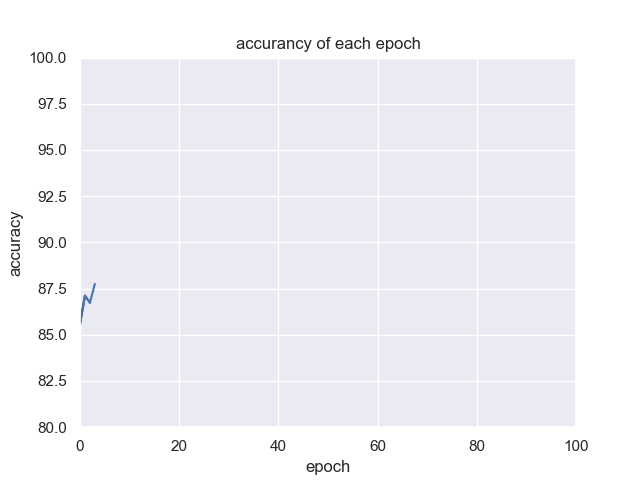
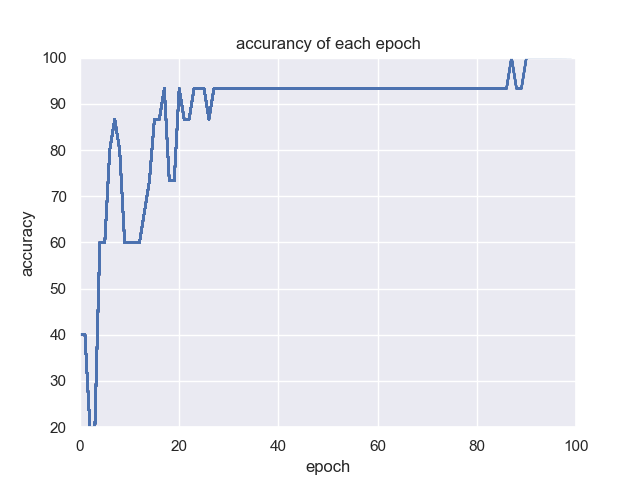
Fix some known problems

diff --git a/main.py b/main.py
@@ -3,7 +3,7 @@ Author: Derry
 Email: drlv@mail.ustc.edu.cn
 Date: 2021-07-25 23:39:03
 LastEditors: Derry
-LastEditTime: 2021-08-11 21:24:59
+LastEditTime: 2021-08-25 23:52:59
 Description: Standard main file of a neural network
 '''
 
@@ -27,7 +27,7 @@ def train(my_model, train_loader, test_loader, optimizer, scheduler, args, start
     test_loss_all, test_acc_all = [], []
     best_acc = 0
 
-    for epoch in range(start_epoch, args.epoch):
+    for epoch in range(start_epoch+1, args.epoch+1):
         start = time.time()
         for batch, (X_train, y_train) in enumerate(train_loader):
             my_model.train()
@@ -40,7 +40,7 @@ def train(my_model, train_loader, test_loader, optimizer, scheduler, args, start
             _, loss = my_model(X_train, y_train)
             loss.backward()
             optimizer.step()
-            scheduler.step(loss)
+        scheduler.step(loss)
 
         if not args.fastmode:
             print("Epoch {:3d}".format(epoch),
@@ -61,60 +61,63 @@ def train(my_model, train_loader, test_loader, optimizer, scheduler, args, start
             plot(test_loss_all, test_acc_all, args)
 
 
+@torch.no_grad()
 def test(my_model, test_loader, args):
-    with torch.no_grad():
-        for batch, (X_test, y_test) in enumerate(test_loader):
-            if args.cuda:
-                X_test = X_test.cuda()
-                y_test = y_test.cuda()
-            loss, acc = my_model.evaluate(X_test, y_test)
+    for batch, (X_test, y_test) in enumerate(test_loader):
+        if args.cuda:
+            X_test = X_test.cuda()
+            y_test = y_test.cuda()
+        loss, acc = my_model.evaluate(X_test, y_test)
 
-        print("Test set results:",
-              "loss= {:.4f}".format(loss),
-              "accuracy= {:.2f} %".format(100*acc))
-        return loss.item(), 100*acc.item()
+    print("Test set results:",
+          "loss= {:.4f}".format(loss),
+          "accuracy= {:.2f} %".format(acc))
+    return loss, acc
 
 
 if __name__ == "__main__":
     # Training settings
     parser = argparse.ArgumentParser()
-    parser.add_argument('--no_cuda', action='store_true',
-                        default=False, help='Disables CUDA training.')
-    parser.add_argument('--fastmode', action='store_true',
-                        default=False, help='Validate during training pass.')
-    parser.add_argument('--pretrained', action='store_true',
-                        default=True, help='Using pretrained model parameter.')
+    # Training outer arguments
+    parser.add_argument('--no_cuda', action='store_true', default=False,
+                        help='Disables CUDA training.')
     parser.add_argument('--seed', type=int, default=42, help='Random seed.')
+    parser.add_argument('--fastmode', action='store_true', default=False,
+                        help='Validate during training pass.')
+    parser.add_argument('--pretrained', action='store_true', default=False,
+                        help='Using pretrained model parameter.')
     parser.add_argument('--epoch', type=int, default=100,
                         help='Number of epochs to train.')
+    # Training inner arguments
     parser.add_argument('--batch_size', type=int, default=1024,
                         help='Number of samples in a batch.')
-    parser.add_argument('--n_in', type=int, default=100)
-    parser.add_argument('--n_out', type=int, default=100)
-    parser.add_argument('--lr', type=float, default=0.001,
+    parser.add_argument('--lr', type=float, default=0.1,
                         help='Initial learning rate.')
-    parser.add_argument('--test_size', type=float, default=0.1)
     parser.add_argument('--weight_decay', type=float, default=5e-4,
                         help='Weight decay (L2 loss on parameters).')
-    parser.add_argument('--hidden', type=int, default=16,
+    # Model arguments
+    parser.add_argument('--n_in', type=int, default=100,
+                        help='Number of input units, self-tuning by input data.')
+    parser.add_argument('--n_out', type=int, default=100,
+                        help='Number of output unit, self-tuning by output data.')
+    parser.add_argument('--n_hid', type=int, default=16,
                         help='Number of hidden units.')
     parser.add_argument('--dropout', type=float, default=0.5,
                         help='Dropout rate (1 - keep probability).')
-    parser.add_argument('--data_path', type=str,
-                        default="./data", help='Path of dataset')
-    parser.add_argument('--tmp_path', type=str,
-                        default="./tmp", help='Path of tmporary output')
-    parser.add_argument('--model_path', type=str,
-                        default="./model/best_model.tar",
+    # Path arguments
+    parser.add_argument('--data_path', type=str, default="./data",
+                        help='Path of dataset')
+    parser.add_argument('--tmp_path', type=str, default="./tmp",
+                        help='Path of tmporary output')
+    parser.add_argument('--model_path', type=str, default="./model/best_model.tar",
                         help='Path of model parameter')
-
     args = parser.parse_args()
     args.cuda = not args.no_cuda and torch.cuda.is_available()
 
     # Load data
-    X_train, y_train, X_test, y_test = load_mnist_data(args)
+    X_train, y_train, X_test, y_test = load_iris_data(args)
     args.n_in = X_train.shape[1]
-    args.n_out = len(set(list(y_train)))
+    args.n_out = len(set(list(y_train.numpy())))
 
     # Construct data loader
     train_dataset = TensorDataset(X_train, y_train)
@@ -127,7 +130,7 @@ if __name__ == "__main__":
                              shuffle=True)
 
     # Model, optimizer and scheduler
-    my_model = CNN(args)
+    my_model = MLP(args)
     optimizer = torch.optim.AdamW(my_model.parameters(),
                                   lr=args.lr, weight_decay=args.weight_decay)
     scheduler = torch.optim.lr_scheduler.ReduceLROnPlateau(optimizer)

diff --git a/model.py b/model.py
@@ -3,7 +3,7 @@ Author: Derry
 Email: drlv@mail.ustc.edu.cn
 Date: 2021-07-25 23:55:26
 LastEditors: Derry
-LastEditTime: 2021-08-11 18:29:10
+LastEditTime: 2021-08-25 23:52:37
 Description: Standard model file of a neural network
 '''
 
@@ -14,9 +14,8 @@ import torch.nn as nn
 class MLP(torch.nn.Module):
     def __init__(self, args):
         super(MLP, self).__init__()
-        n_hid = 64
-        self.hidden = nn.Linear(args.n_in, n_hid)
-        self.out = nn.Linear(n_hid, args.n_out)
+        self.hidden = nn.Linear(args.n_in, args.n_hid)
+        self.out = nn.Linear(args.n_hid, args.n_out)
 
     def forward(self, X, y):
         X = self.hidden(X)
@@ -32,9 +31,8 @@ class MLP(torch.nn.Module):
     def evaluate(self, X, y):
         self.eval()
         y_pred, loss = self.forward(X, y)
-        acc = ((y_pred == y).int().sum().float() /
-               float(y.shape[0])).cpu().numpy()
-        return loss, acc
+        acc = (y_pred == y).int().sum() / y.shape[0]
+        return loss.item(), 100*acc.item()
 
 
 class CNN(nn.Module):

diff --git a/utils.py b/utils.py
@@ -3,7 +3,7 @@ Author: Derry
 Email: drlv@mail.ustc.edu.cn
 Date: 2021-07-27 17:05:23
 LastEditors: Derry
-LastEditTime: 2021-08-11 21:34:39
+LastEditTime: 2021-08-25 23:54:57
 Description: Standard utils file of a neural network
 '''
 import torch
@@ -34,7 +34,7 @@ def load_iris_data(args):
     from sklearn.model_selection import train_test_split
     X, y = load_iris(return_X_y=True)
     X_train, X_test, y_train, y_test = train_test_split(
-        X, y, test_size=args.test_size, random_state=args.seed)
+        X, y, test_size=0.1, random_state=args.seed)
     return (torch.as_tensor(X_train, dtype=torch.float32),
             torch.as_tensor(y_train, dtype=torch.long),
             torch.as_tensor(X_test, dtype=torch.float32),
